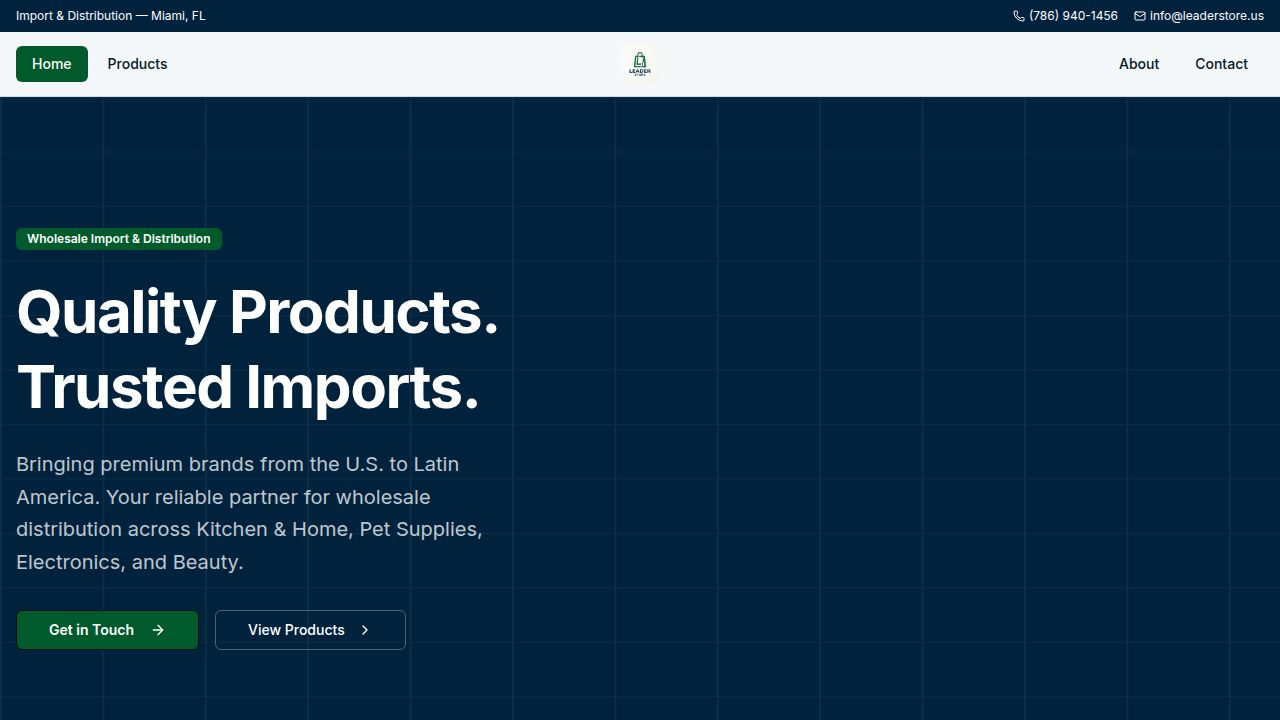
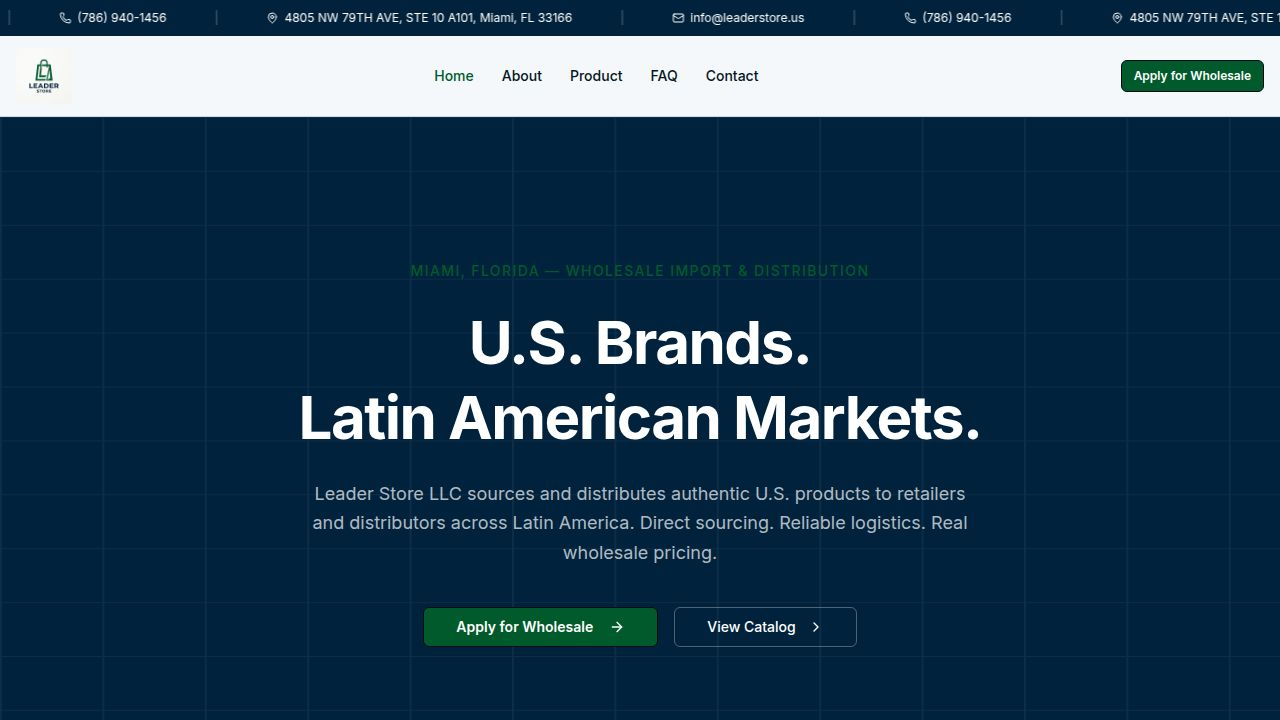
Update navigation bar to display contact information in a scrolling ticker
Fix newsletter API endpoint and update layout with a scrolling contact ticker animation.

Replit-Commit-Author: Agent
Replit-Commit-Session-Id: c1392246-9eb9-4ade-a701-ace0114c7f6e
Replit-Commit-Checkpoint-Type: full_checkpoint
Replit-Commit-Event-Id: 55e87abd-c7c3-4626-be30-f231a2cf9f6e
Replit-Commit-Screenshot-Url: https://storage.googleapis.com/screenshot-production-us-central1/d23284e2-33df-434e-8fa2-278f798d01c9/c1392246-9eb9-4ade-a701-ace0114c7f6e/BsUxsT1
Replit-Helium-Checkpoint-Created: true

diff --git a/artifacts/walmart-store/src/components/layout.tsx b/artifacts/walmart-store/src/components/layout.tsx
@@ -11,7 +11,6 @@ import {
   Linkedin,
   Twitter,
   Send,
-  Truck,
 } from "lucide-react";
 import { Button } from "@/components/ui/button";
 import { Input } from "@/components/ui/input";
@@ -121,28 +120,33 @@ export default function Layout({ children }: { children: React.ReactNode }) {
 
   return (
     <div className="min-h-screen flex flex-col">
-      {/* Top bar — promo + contact info */}
-      <div className="bg-primary text-primary-foreground text-xs py-2 px-4">
-        <div className="max-w-7xl mx-auto flex flex-wrap items-center justify-between gap-3">
-          <div className="flex items-center gap-1.5 text-accent font-medium">
-            <Truck className="h-3.5 w-3.5" />
-            <span>Envíos gratis dentro de US en pedidos de más de $3,000</span>
-          </div>
-          <div className="flex items-center gap-6">
-            <a
-              href="mailto:info@leaderstore.us"
-              className="hidden sm:flex items-center gap-1.5 hover:text-accent transition-colors"
-            >
-              <Mail className="h-3 w-3" />
-              info@leaderstore.us
+      {/* Top bar — scrolling contact ticker */}
+      <div className="bg-primary text-primary-foreground text-xs py-2.5 px-4 overflow-hidden">
+        <div className="max-w-7xl mx-auto relative">
+          <div className="flex animate-marquee whitespace-nowrap gap-12 justify-center">
+            <a href="mailto:info@leaderstore.us" className="flex items-center gap-1.5 hover:text-accent transition-colors shrink-0">
+              <Mail className="h-3 w-3" /> info@leaderstore.us
             </a>
-            <a
-              href="tel:+17869401456"
-              className="flex items-center gap-1.5 hover:text-accent transition-colors"
-            >
-              <Phone className="h-3 w-3" />
-              <b>(786) 940-1456</b>
+            <span className="text-primary-foreground/30 shrink-0">|</span>
+            <a href="tel:+17869401456" className="flex items-center gap-1.5 hover:text-accent transition-colors shrink-0">
+              <Phone className="h-3 w-3" /> (786) 940-1456
             </a>
+            <span className="text-primary-foreground/30 shrink-0">|</span>
+            <span className="flex items-center gap-1.5 shrink-0">
+              <MapPin className="h-3 w-3" /> 4805 NW 79TH AVE, STE 10 A101, Miami, FL 33166
+            </span>
+            <span className="text-primary-foreground/30 shrink-0">|</span>
+            <a href="mailto:info@leaderstore.us" className="flex items-center gap-1.5 hover:text-accent transition-colors shrink-0">
+              <Mail className="h-3 w-3" /> info@leaderstore.us
+            </a>
+            <span className="text-primary-foreground/30 shrink-0">|</span>
+            <a href="tel:+17869401456" className="flex items-center gap-1.5 hover:text-accent transition-colors shrink-0">
+              <Phone className="h-3 w-3" /> (786) 940-1456
+            </a>
+            <span className="text-primary-foreground/30 shrink-0">|</span>
+            <span className="flex items-center gap-1.5 shrink-0">
+              <MapPin className="h-3 w-3" /> 4805 NW 79TH AVE, STE 10 A101, Miami, FL 33166
+            </span>
           </div>
         </div>
       </div>

diff --git a/artifacts/api-server/src/routes/newsletter.ts b/artifacts/api-server/src/routes/newsletter.ts
@@ -8,7 +8,7 @@ const NewsletterSubscribeBody = z.object({
   name: z.string().optional(),
 });
 
-router.post("/api/newsletter/subscribe", (req, res) => {
+router.post("/newsletter/subscribe", (req, res) => {
   const parsed = NewsletterSubscribeBody.safeParse(req.body);
   if (!parsed.success) {
     res.status(400).json({ error: "Invalid email address" });

diff --git a/artifacts/walmart-store/src/index.css b/artifacts/walmart-store/src/index.css
@@ -159,6 +159,14 @@
 }
 
 @layer utilities {
+  @keyframes marquee {
+    0% { transform: translateX(0); }
+    100% { transform: translateX(-50%); }
+  }
+  .animate-marquee {
+    animation: marquee 20s linear infinite;
+  }
+
   input[type="search"]::-webkit-search-cancel-button {
     @apply hidden;
   }
